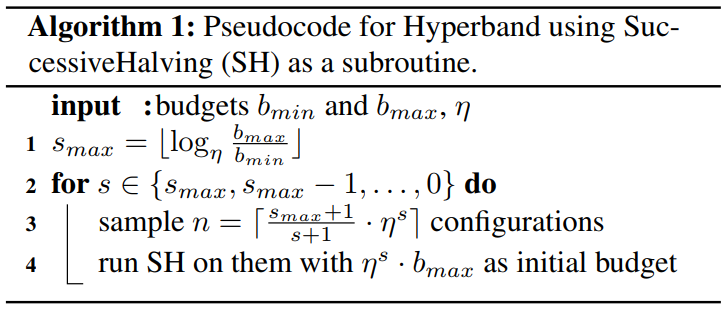
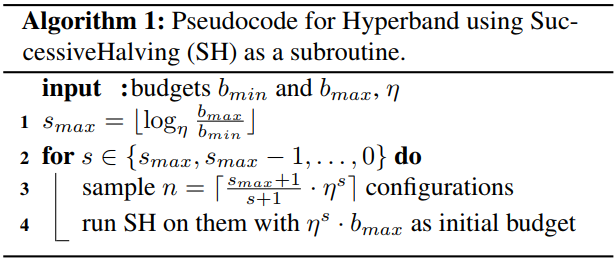
update picture size

diff --git a/docs/en_US/bohbAdvisor.md b/docs/en_US/bohbAdvisor.md
@@ -30,7 +30,7 @@ best and worst configurations, respectively, to model the two densities.
 
 Note that we alse sample a constant fraction named **random fraction** of the configurations uniformly at random.
 
-### Workflow
+## 2. Workflow
 
 ![](../img/bohb_6.jpg)
 
@@ -41,7 +41,7 @@ The way of sampling procedure(use Multidimensional KDE to guide the selection) i
 
 ![](../img/bohb_4.png)
 
-## 2. Usage
+## 3. Usage
 
 BOHB advisor requires [ConfigSpace](https://github.com/automl/ConfigSpace) package, ConfigSpace need to be installed by following command before first use.
 
@@ -75,20 +75,20 @@ advisor:
 * **eta** (*int, optional, default = 3*) - In each iteration, a complete run of sequential halving is executed. In it, after evaluating each configuration on the same subset size, only a fraction of 1/eta of them 'advances' to the next round. Must be greater or equal to 2.
 * **min_points_in_model**(*int, optional, default = None*): number of observations to start building a KDE. Default 'None' means dim+1, the bare minimum, reset value must be positive.
 * **top_n_percent**(*int, optional, default = 15*): percentage (between 1 and 99, default 15) of the observations that are considered good. Good points and bad points are used for building KDE models. For example, if you have 100 observed trials and top_n_percent is 15, then top 15 point will used for building good point models "l(x)", the remaining 85 point will used for building bad point models "g(x)"
-* **num_samples**(*int, optional, default = 64*): number of samples to optimize EI (default 64)
+* **num_samples**(*int, optional, default = 64*): number of samples to optimize EI (default 64). In this case, we will sample "num_samples"(default = 64) points, and compare the result of l(x)/g(x), then return one with the maximum l(x)/g(x) value as the next configuration if the optimize_mode is maximize. Otherwise, we return the smallest one.
 * **random_fraction**(*float, optional, default = 0.33*): fraction of purely random configurations that are sampled from the prior without the model.
-* **bandwidth_factor**(*float, optional, default = 3.0*): to encourage diversity, the points proposed to optimize EI, are sampled from a 'widened' KDE where the bandwidth is multiplied by this factor
-* **min_bandwidth**(*float, optional, default = 0.001*): to keep diversity, even when all (good) samples have the same value for one of the parameters, a minimum bandwidth (default: 1e-3) is used instead of zero.
+* **bandwidth_factor**(*float, optional, default = 3.0*): to encourage diversity, the points proposed to optimize EI, are sampled from a 'widened' KDE where the bandwidth is multiplied by this factor. Suggest to use default value if you are not familiar with KDE.
+* **min_bandwidth**(*float, optional, default = 0.001*): to keep diversity, even when all (good) samples have the same value for one of the parameters, a minimum bandwidth (default: 1e-3) is used instead of zero. Suggest to use default value if you are not familiar with KDE.
 
 *Please note that currently float type only support decimal representation, you have to use 0.333 instead of 1/3 and 0.001 instead of 1e-3.*
 
-## 3. File Structure
+## 4. File Structure
 The advisor has a lot of different files, functions and classes. Here we will only give most of those files a brief introduction:
 
 * `bohb_advisor.py` Defination of BOHB, handle the interaction with the dispatcher, including generating new trial and processing results. Also includes the implementation of HB(Hyperband) part.
 * `config_generator.py` includes the implementation of BO(Bayesian Optimization) part. The function *get_config* can generate new configuration base on BO, the function *new_result* will update model with the new result.
 
-## 4. Experiment
+## 5. Experiment
 
 ### MNIST with BOHB
 

diff --git a/docs/en_US/Builtin_Tuner.md b/docs/en_US/Builtin_Tuner.md
@@ -346,11 +346,11 @@ Similar to Hyperband, it is suggested when you have limited computation resource
 * **max_budget** (*int, optional, default = 3*) - The largest budget to consider. Needs to be larger than min_budget.
 * **eta** (*int, optional, default = 3*) - In each iteration, a complete run of sequential halving is executed. In it, after evaluating each configuration on the same subset size, only a fraction of 1/eta of them 'advances' to the next round. Must be greater or equal to 2.
 * **min_points_in_model**(*int, optional, default = None*): number of observations to start building a KDE. Default 'None' means dim+1, the bare minimum, reset value must be positive.
-* **top_n_percent**(*int, optional, default = 15*): percentage (between 1 and 99, default 15) of the observations that are considered good.
-* **num_samples**(*int, optional, default = 64*): number of samples to optimize EI (default 64)
-* **random_fraction**(*float, optional, default = 0.333*): fraction of purely random configurations that are sampled from the prior without the model.
-* **bandwidth_factor**(*float, optional, default = 3.0*): to encourage diversity, the points proposed to optimize EI, are sampled from a 'widened' KDE where the bandwidth is multiplied by this factor
-* **min_bandwidth**(*float, optional, default = 0.001*): to keep diversity, even when all (good) samples have the same value for one of the parameters, a minimum bandwidth (Default: 1e-3) is used instead of zero.
+* **top_n_percent**(*int, optional, default = 15*): percentage (between 1 and 99, default 15) of the observations that are considered good. Good points and bad points are used for building KDE models. For example, if you have 100 observed trials and top_n_percent is 15, then top 15 point will used for building good point models "l(x)", the remaining 85 point will used for building bad point models "g(x)"
+* **num_samples**(*int, optional, default = 64*): number of samples to optimize EI (default 64). In this case, we will sample "num_samples"(default = 64) points, and compare the result of l(x)/g(x), then return one with the maximum l(x)/g(x) value as the next configuration if the optimize_mode is maximize. Otherwise, we return the smallest one.
+* **random_fraction**(*float, optional, default = 0.33*): fraction of purely random configurations that are sampled from the prior without the model.
+* **bandwidth_factor**(*float, optional, default = 3.0*): to encourage diversity, the points proposed to optimize EI, are sampled from a 'widened' KDE where the bandwidth is multiplied by this factor. Suggest to use default value if you are not familiar with KDE.
+* **min_bandwidth**(*float, optional, default = 0.001*): to keep diversity, even when all (good) samples have the same value for one of the parameters, a minimum bandwidth (default: 1e-3) is used instead of zero. Suggest to use default value if you are not familiar with KDE.
 
 *Please note that currently float type only support decimal representation, you have to use 0.333 instead of 1/3 and 0.001 instead of 1e-3.*
 
